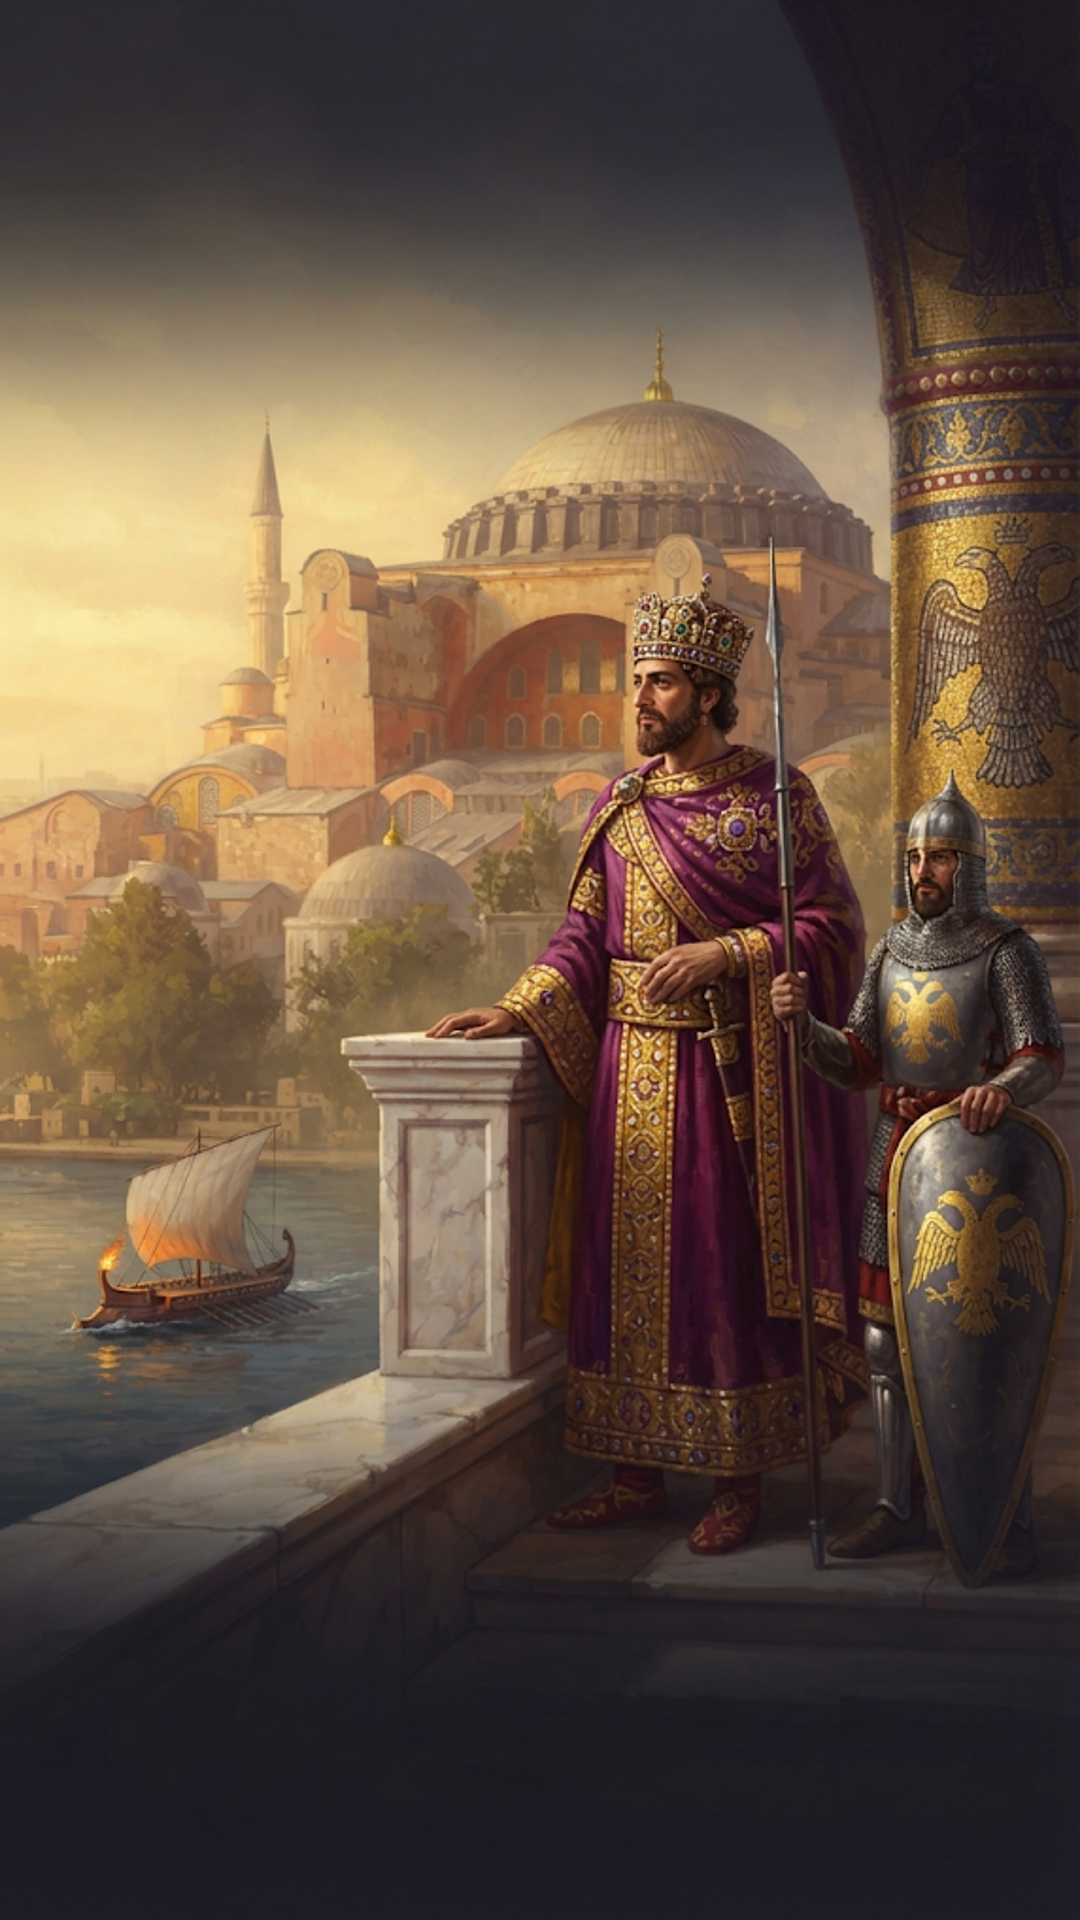
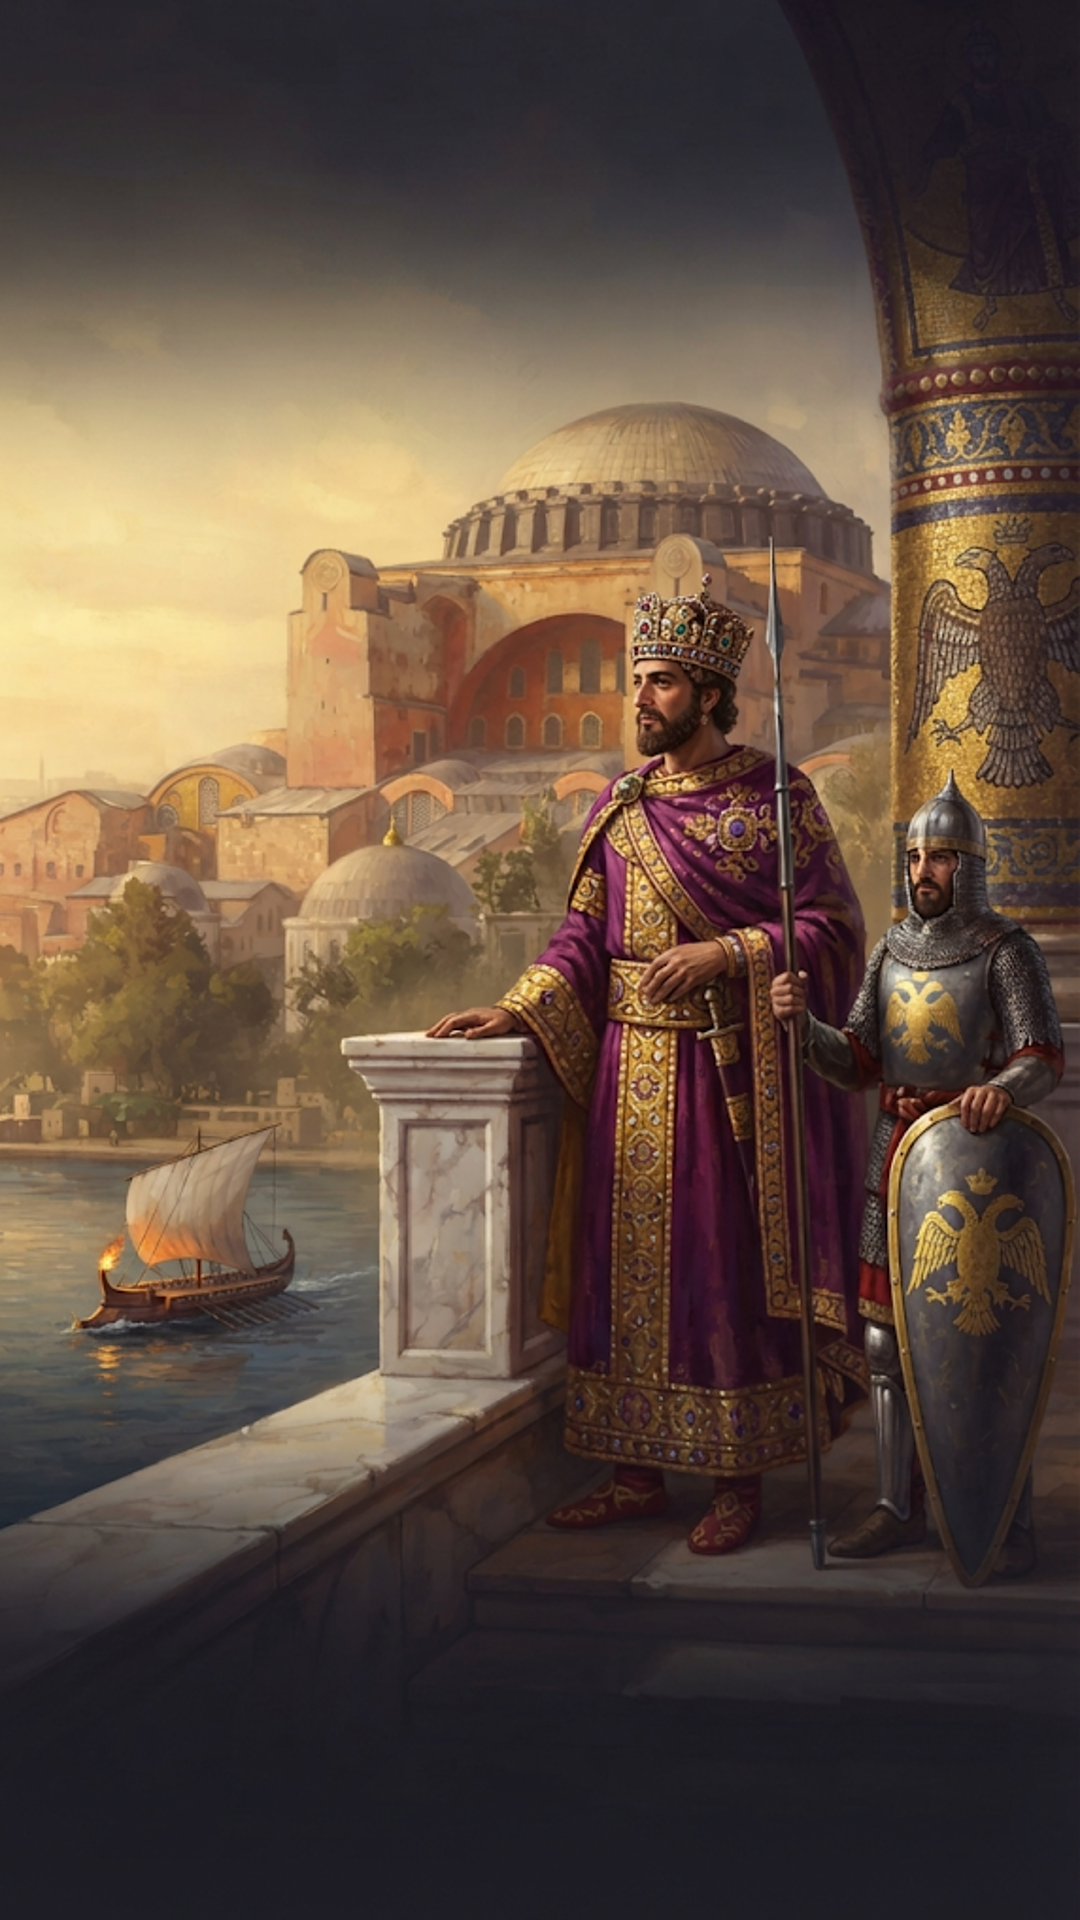
Byzantium: minaret-free civilization card; emperor portrait kept as an alternate loading painting

diff --git a/README.md b/README.md
@@ -282,5 +282,7 @@ Unique units and buildings borrow the models of the base units and buildings the
 and building medallions (cut from a concept sheet, kept in `icons-alt/`) with vector unit
 silhouettes (`icons-vector/`, sources in `icons/src/`); `tools/switch-icons.sh Byzantium alt|vector|mixed`
 swaps between them. `Byzantium/loading/` holds the painted loading screen (1080 and 720 variants) and the
-civilization-select card; the `source-*.png` files are the untouched generations. Design notes and the verification record are in `plans/byzantium.md`; the recipe for the
+civilization-select card; the `source-*.png` files are the untouched generations. `lsbg_byzantium_emperor_1080.png` is an
+alternate loading painting (emperor portrait); point `data/loading-info.xml` and the BACKGROUND rows in
+`data/icons/icons.xml` at it to use it. Design notes and the verification record are in `plans/byzantium.md`; the recipe for the
 next civilization is `.claude/skills/new-civilization/`.
